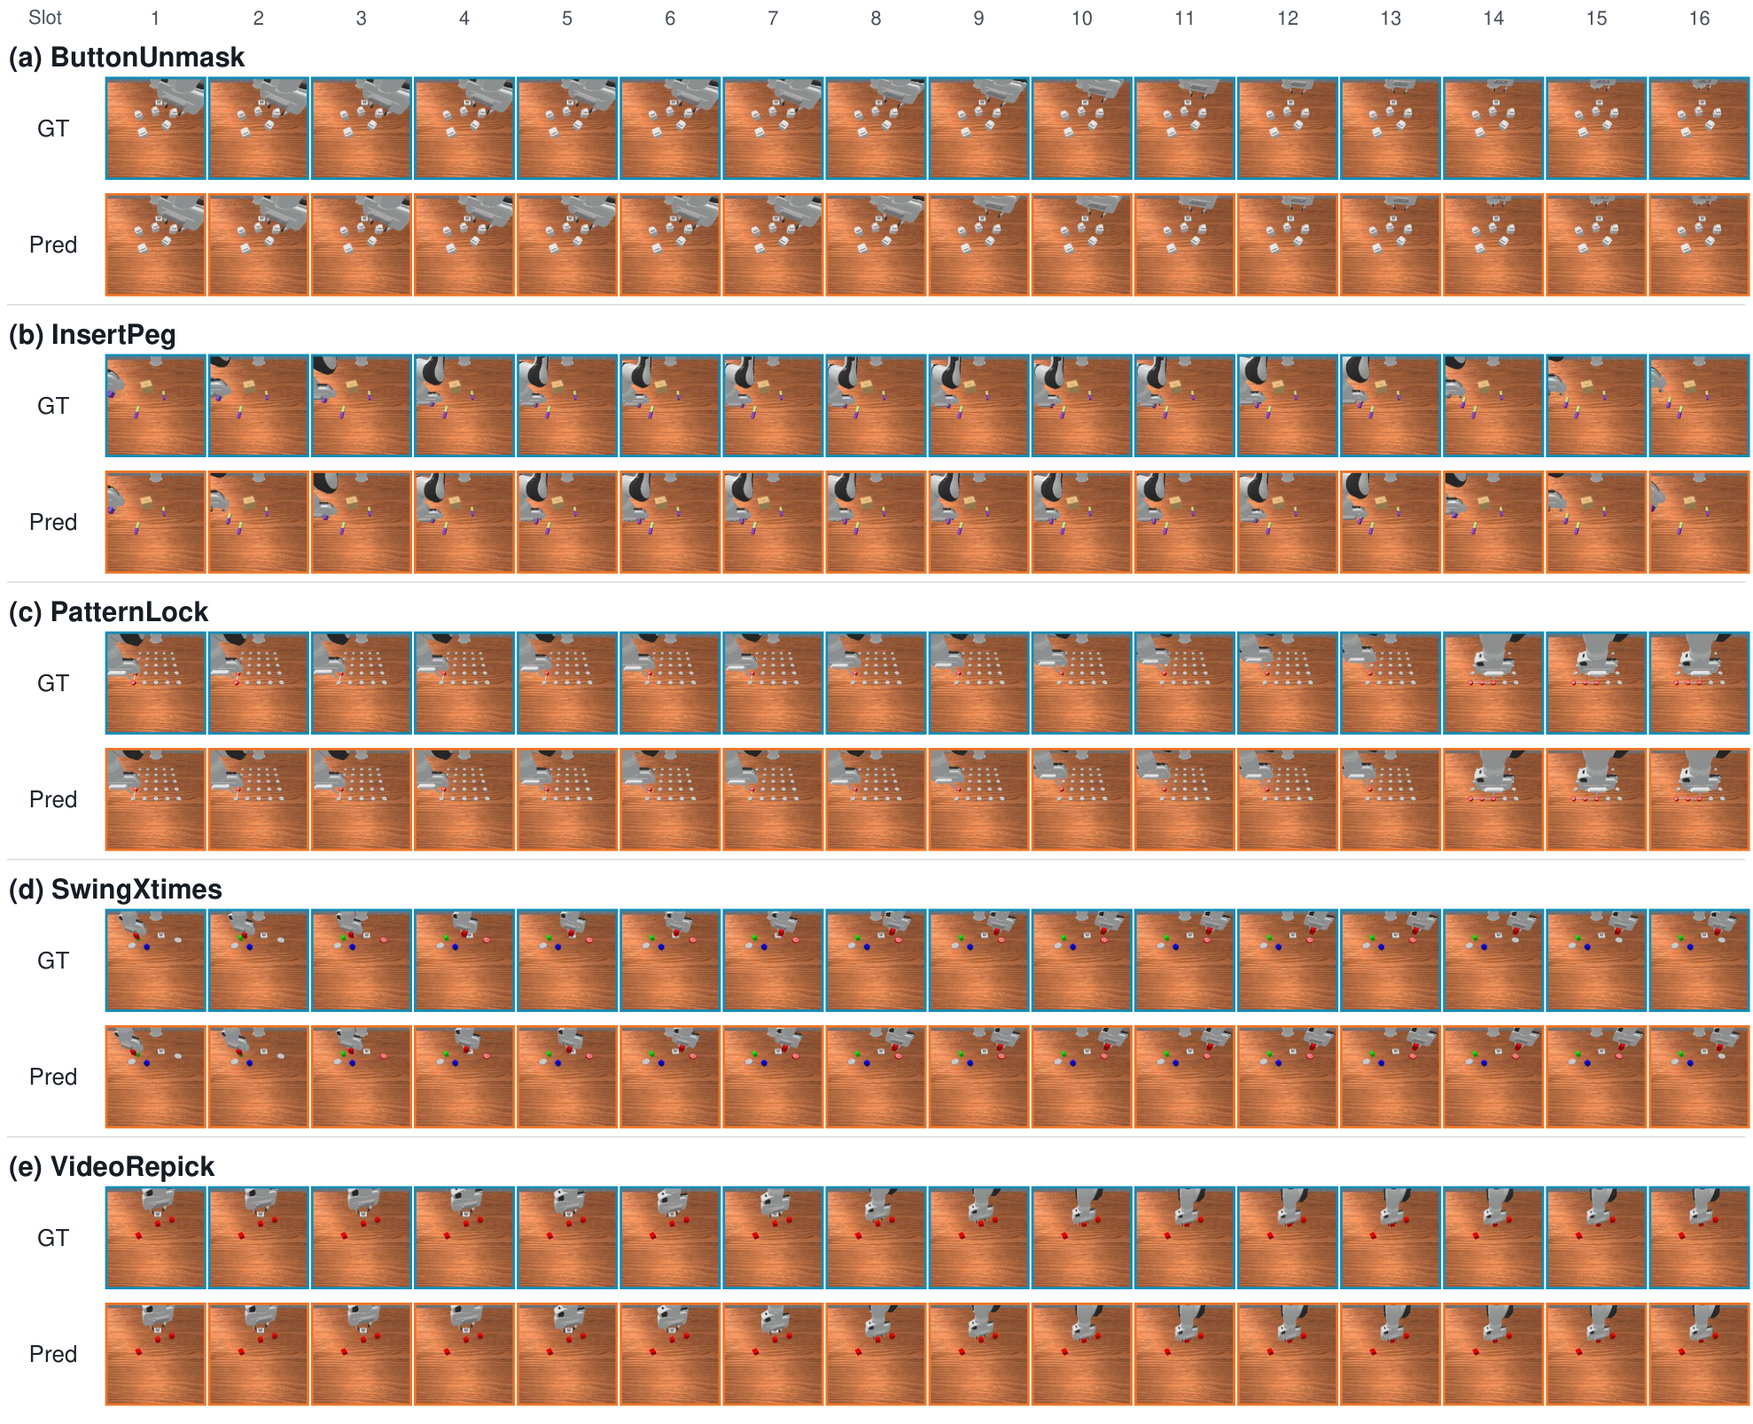
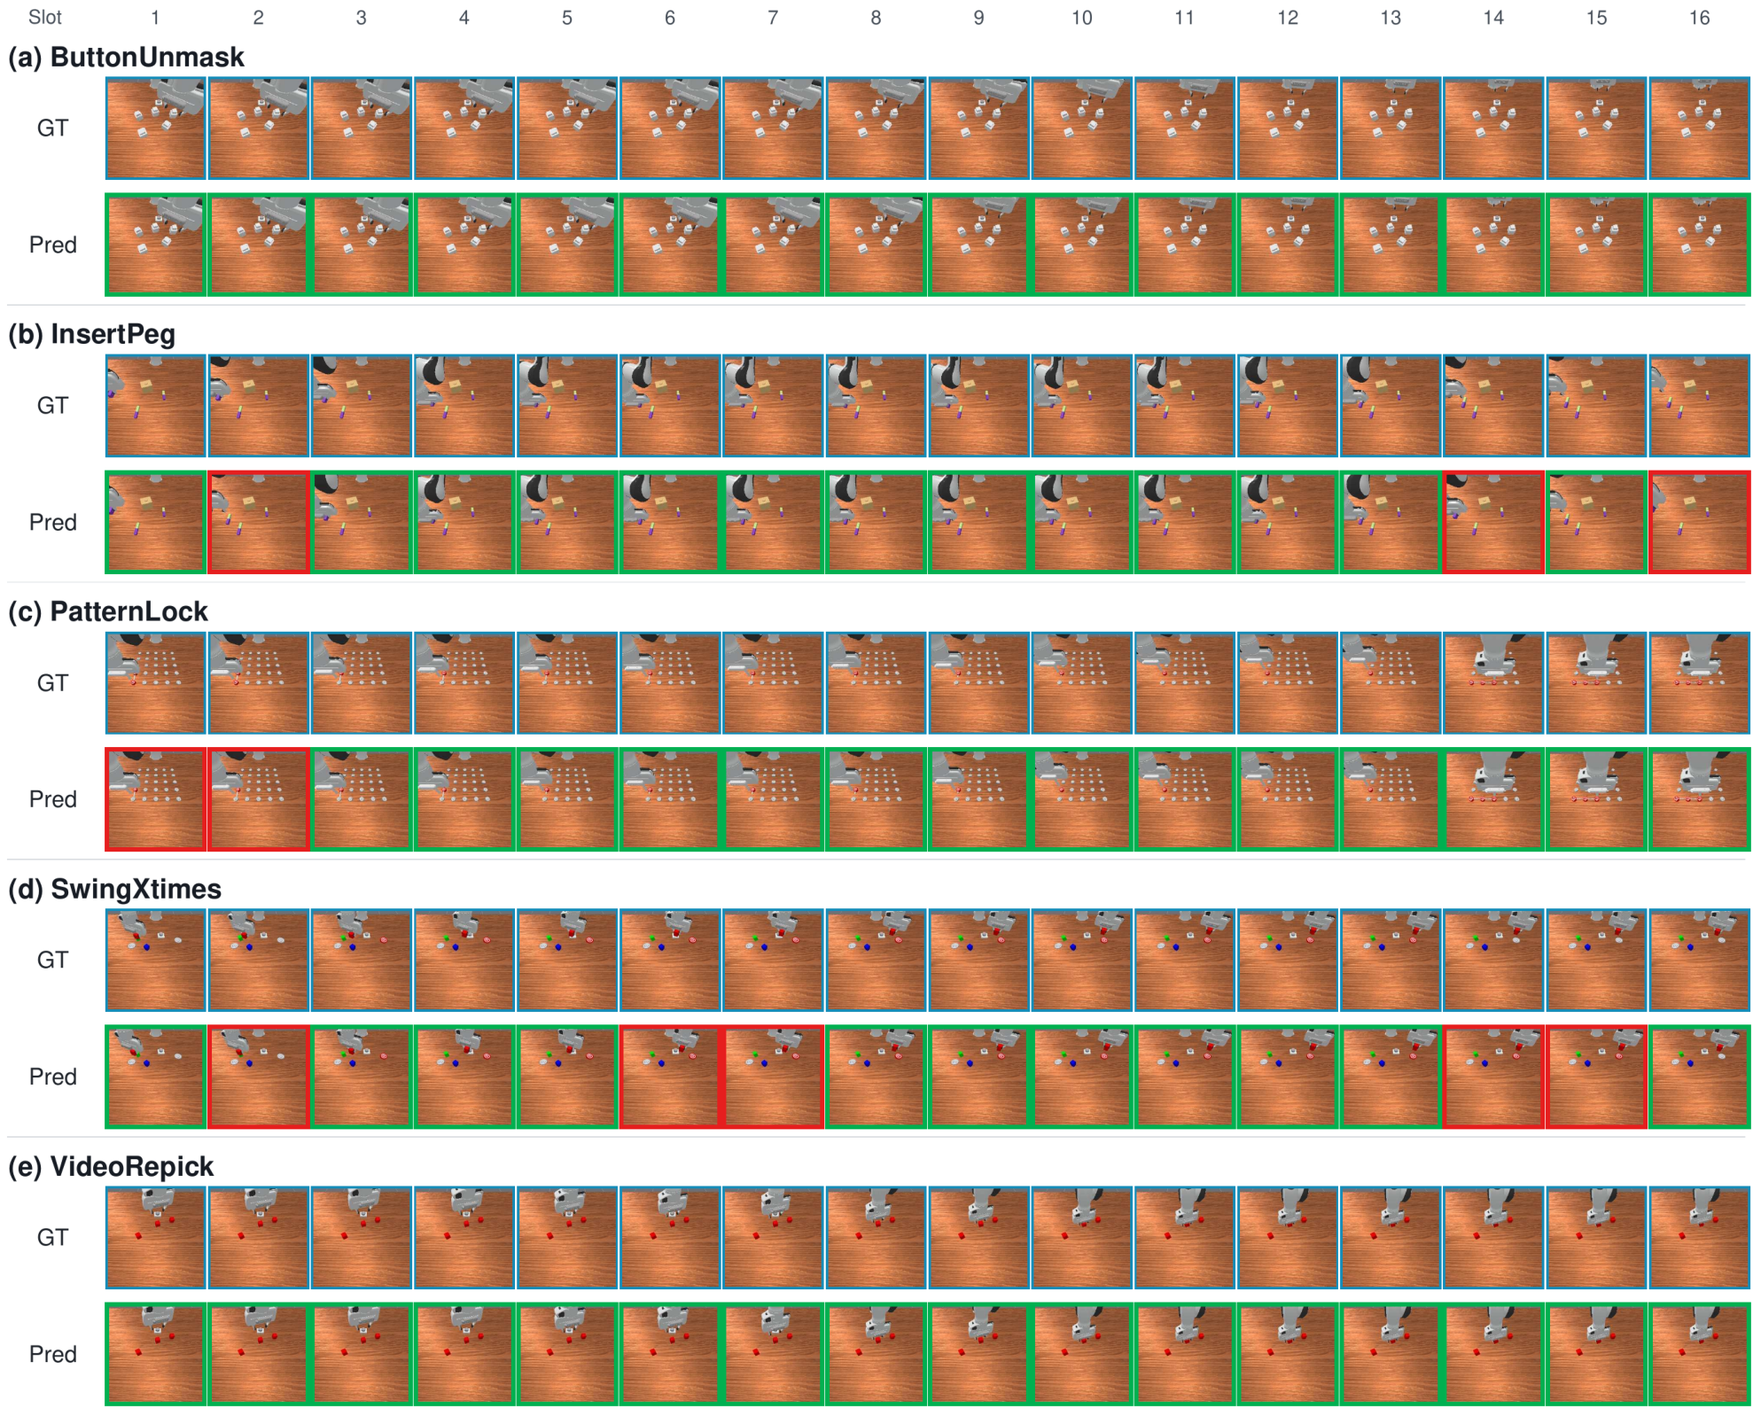
Update homepage to the threshold-retrieval manuscript.
Replace the 32-frame / 512-slot copy with the current English
paper: suite component gains, Piper 62.5% mean TSR, and the
threshold teaser. Keep Claude Official tokens. Cache-bust v=4.

diff --git a/index.html b/index.html
@@ -3,10 +3,10 @@
 <head>
   <meta charset="utf-8">
   <meta name="viewport" content="width=device-width, initial-scale=1">
-  <title>Dual-Stream Memory for VLAs | ICRA 2027</title>
-  <meta name="description" content="Dual-stream memory for VLAs: causal retrieval, streaming compression, and linear multi-scale fusion. ICRA 2027, under double-anonymous review.">
-  <link rel="icon" href="favicon.svg?v=3" type="image/svg+xml">
-  <link rel="stylesheet" href="style.css?v=3">
+  <title>Dual-Stream Memory for Vision-Language-Action Policies | ICRA 2027</title>
+  <meta name="description" content="Dual-stream memory for VLA policies: recurrent execution context and threshold retrieval of historical images. ICRA 2027, under double-anonymous review.">
+  <link rel="icon" href="favicon.svg?v=4" type="image/svg+xml">
+  <link rel="stylesheet" href="style.css?v=4">
 </head>
 <body>
   <header class="site-head">
@@ -24,14 +24,14 @@
   <main class="wrap">
     <section class="intro">
       <p class="eyebrow">ICRA 2027</p>
-      <h1>Dual-Stream Memory for VLAs: Causal Retrieval, Streaming Compression, and Linear Multi-Scale Fusion</h1>
+      <h1>Dual-Stream Memory for Vision-Language-Action Policies</h1>
       <p class="authors">Anonymous Authors</p>
-      <p class="lead">Task-conditioned retrieval and task-agnostic recurrent compression stay as separate memory streams. Linear fusion fills a fixed spatial budget. The policy reads patches and one temporal token through typed cross-attention.</p>
+      <p class="lead">Recurrent execution context stays in one temporal token. Task-conditioned retrieval keeps historical images above a relevance threshold. Linear fusion represents each retained frame in sixteen spatial tokens.</p>
       <div class="facts">
-        <span class="fact"><b>512</b> spatial slots</span>
-        <span class="fact"><b>32</b> retrieved frames</span>
         <span class="fact"><b>1</b> temporal token</span>
-        <span class="fact"><b>4</b> Piper tasks</span>
+        <span class="fact"><b>16</b> tokens / frame</span>
+        <span class="fact"><b>0.6</b> retrieval threshold</span>
+        <span class="fact"><b>62.5%</b> Piper mean TSR</span>
       </div>
       <p class="chip">Under double-anonymous review</p>
       <nav class="pills" aria-label="On this page">
@@ -45,8 +45,8 @@
     <section>
       <article class="card">
         <figure>
-          <img src="assets/teaser.png" alt="Dual-stream memory pipeline: dense retrieval and linear multi-scale fusion on the spatial stream, Gated DeltaNet compression on the temporal stream, and typed policy readout.">
-          <figcaption>Dual-stream memory and training supervision. (a) Task-conditioned dense retrieval selects historical frames; linear multi-scale fusion combines aligned coarse, base, and fine SigLIP features in 512 fixed slots. A task-agnostic Gated DeltaNet supplies one temporal token through a separate gated readout. (b) Keyframe and patch-mask losses supervise a shared relevance grid. (c) Progress regression and action-conditioned feature reconstruction supervise the compressed state; auxiliary heads and the frozen target encoder are removed before policy integration.</figcaption>
+          <img src="assets/teaser.png" alt="Dual-stream memory: Gated DeltaNet compression, threshold retrieval, and linear multi-scale fusion feeding a VLA policy.">
+          <figcaption>Dual-stream memory. (a) GDN compresses visual history into one temporal token; threshold retrieval and multi-scale fusion produce 16<em>m<sub>t</sub></em> spatial tokens from <em>m<sub>t</sub></em> retained frames. (b,c) Independent Stage 1 objectives; Stage 2 jointly trains the assembled policy. Auxiliary heads are removed before policy integration.</figcaption>
         </figure>
       </article>
     </section>
@@ -57,7 +57,7 @@
         <h2>Abstract</h2>
       </div>
       <article class="card">
-        <p>Long-horizon vision-language-action (VLA) control requires access to task-relevant visual evidence and compact temporal context. We present dual-stream memory that separates task-conditioned retrieval from task-agnostic recurrent compression. A dense retriever locates relevant frames and patches, while a Gated DeltaNet summarizes a stride-sampled causal history. Progress regression and action-conditioned reconstruction of past visual features supervise the compressed state. Linear multi-scale fusion combines coarse context and fine detail within 512 fixed spatial slots. Separate policy readouts integrate this spatial memory with one temporal token. Controlled RoboMME ablations evaluated frame retrieval, spatial fusion, and temporal readout. The complete model achieved <span class="tbd">[TBD]</span>% task success, exceeding FrameSamp+Modul by <span class="tbd">[TBD]</span> percentage points, and achieved <span class="tbd">[TBD]</span>% average success across four Piper tasks. These results support separate spatial and temporal memory interfaces within the evaluated tasks and history lengths.</p>
+        <p>Memory-dependent manipulation requires tracking execution progress while recovering visual evidence that is no longer visible. We present dual-stream memory for vision-language-action policies, separating recurrent execution context from task-conditioned access to historical images. A task-agnostic Gated DeltaNet compresses visual history into one temporal token. A retriever retains frames above a fixed relevance threshold, while linear multi-scale fusion represents each retained frame in sixteen spatial tokens. The two streams are pretrained independently and then jointly trained with the policy. Adding the components individually to FrameSamp+Modul yields average success gains of 6.94, 4.22, and 4.50 percentage points on Counting, Permanence, and Reference, respectively. These comparisons use the published RoboMME baseline and show task-dependent gains. The complete model achieves <span class="tbd">[TBD]</span>% overall success on sixteen RoboMME tasks. On four Piper tasks, the complete model achieves 62.5% mean success, compared with 37.5% for FrameSamp+Modul, with the largest gains on repeated-action counting. The results support separating execution context from historical visual evidence, while showing that the benefits depend on the memory demands of each task.</p>
       </article>
     </section>
 
@@ -72,11 +72,11 @@
           <div class="card-heading">
             <div>
               <small>Spatial stream</small>
-              <h3>Dense retrieval and linear fusion</h3>
+              <h3>Threshold retrieval and linear fusion</h3>
             </div>
-            <span class="method-tag">512 slots</span>
+            <span class="method-tag">16 / frame</span>
           </div>
-          <p>The retriever scores front-view history with the task goal and selects 32 frames. Linear multi-scale fusion fills 512 SigLIP slots from aligned 2×2, 4×4, and 8×8 grids.</p>
+          <p>The retriever scores every historical frame and keeps those whose LSE logit exceeds 0.6. Linear multi-scale fusion represents each retained frame with sixteen aligned SigLIP tokens. Memory length follows the evidence, not a fixed top-<em>k</em>.</p>
         </article>
         <article class="card">
           <div class="card-heading">
@@ -86,7 +86,7 @@
             </div>
             <span class="method-tag secondary">1 token</span>
           </div>
-          <p>A six-layer Gated DeltaNet compresses a stride-3 visual prefix into <em>c<sub>t</sub></em>. Separate cross-attention reads the patch memory and this token. Progress and reconstruction heads are training-only.</p>
+          <p>A six-layer Gated DeltaNet compresses a stride-3 visual prefix into <em>c<sub>t</sub></em>. Progress prediction and action-conditioned reconstruction supervise this state. The policy reads it as one temporal token after the auxiliary heads are removed.</p>
         </article>
       </div>
     </section>
@@ -95,115 +95,48 @@
       <div class="section-title">
         <span>EVIDENCE</span>
         <h2>Results</h2>
-        <p>Unfinished rows stay marked. They are not a ranking of the full model.</p>
+        <p>Component additions use the published FrameSamp+Modul baseline. RoboMME overall TSR for the complete model stays unmarked until that number is in the manuscript.</p>
       </div>
       <div class="stack">
         <article class="card">
-          <p>Residual multi-scale sum reached 45.42±1.12% TSR on RoboMME, 0.91 points above the published FrameSamp+Modul aggregate of 44.51±0.77%. Linear fusion, dense retrieval, and typed readout remain <span class="tbd">[TBD]</span>. Piper averages for the completed baselines are π<sub>0.5</sub> 15.0, NativeMEM 31.7, and FrameSamp+Modul 37.5. Ours is <span class="tbd">[TBD]</span>. Those unfinished rows are not a ranking of the full model.</p>
+          <p>Adding one component at a time raised suite TSR by 6.94 points on Counting (GDN), 4.22 on Permanence (threshold retrieval), and 4.50 on Reference (linear fusion). On four Piper tasks the complete model reached 62.5% mean TSR, against 37.5% for FrameSamp+Modul, with the largest gains on repeated-action counting. The sixteen-task RoboMME overall score remains <span class="tbd">[TBD]</span>.</p>
         </article>
 
         <article class="card">
           <div class="table-wrap">
             <table>
-              <caption class="visually-hidden">Fixed-grid FrameSamp TSR on RoboMME</caption>
+              <caption class="visually-hidden">Component additions to FrameSamp+Modul</caption>
               <thead>
                 <tr>
-                  <th>Grid</th>
-                  <th class="num">Tok./frame</th>
-                  <th class="num">Counting</th>
-                  <th class="num">Permanence</th>
-                  <th class="num">Reference</th>
-                  <th class="num">Imitation</th>
-                  <th class="num">Average</th>
+                  <th>Component / suite</th>
+                  <th class="num">Base</th>
+                  <th class="num">Addition</th>
+                  <th class="num">Δ (pp)</th>
                 </tr>
               </thead>
               <tbody>
                 <tr>
-                  <td>2×2</td>
-                  <td class="num">4</td>
-                  <td class="num">66.17</td>
-                  <td class="num">26.67</td>
-                  <td class="num">39.00</td>
-                  <td class="num">45.83</td>
-                  <td class="num">44.42±0.07</td>
-                </tr>
-                <tr>
-                  <td>4×4</td>
-                  <td class="num">16</td>
+                  <td>GDN / Counting</td>
                   <td class="num">65.22</td>
+                  <td class="num">72.17±4.25</td>
+                  <td class="num">+6.94</td>
+                </tr>
+                <tr>
+                  <td>Retrieval / Permanence</td>
                   <td class="num">25.11</td>
-                  <td class="num">36.33</td>
-                  <td class="num">51.39</td>
-                  <td class="num">44.51±0.77</td>
+                  <td class="num">29.33±0.76</td>
+                  <td class="num">+4.22</td>
                 </tr>
-                <tr>
-                  <td>8×8</td>
-                  <td class="num">64</td>
-                  <td class="num">68.67</td>
-                  <td class="num">26.33</td>
+                <tr class="ours-row">
+                  <td>Linear fusion / Reference</td>
                   <td class="num">36.33</td>
-                  <td class="num">44.17</td>
-                  <td class="num">43.88±0.82</td>
+                  <td class="num">40.83±3.62</td>
+                  <td class="num">+4.50</td>
                 </tr>
               </tbody>
             </table>
           </div>
-          <p class="caption">Fixed-grid FrameSamp TSR (%) on RoboMME with 32 frames and an 80,000-step training budget. Average is the unweighted mean across four suites. The grids use 128, 512, and 2,048 patch tokens, respectively. The 4×4 row is the published FrameSamp+Modul reference; the other rows report final-checkpoint means and sample standard deviations across three evaluation seeds.</p>
-        </article>
-
-        <article class="card">
-          <div class="table-wrap">
-            <table>
-              <caption class="visually-hidden">RoboMME ablations</caption>
-              <thead>
-                <tr>
-                  <th>Variant</th>
-                  <th class="num">Patch tok.</th>
-                  <th class="num">Temp. tok.</th>
-                  <th class="num">TSR (%)</th>
-                </tr>
-              </thead>
-              <tbody>
-                <tr>
-                  <td>FrameSamp+Modul</td>
-                  <td class="num">512</td>
-                  <td class="num">0</td>
-                  <td class="num">44.51±0.77</td>
-                </tr>
-                <tr class="ours-row">
-                  <td>Residual multi-scale sum</td>
-                  <td class="num">512</td>
-                  <td class="num">0</td>
-                  <td class="num">45.42±1.12</td>
-                </tr>
-                <tr>
-                  <td>Linear multi-scale fusion</td>
-                  <td class="num">512</td>
-                  <td class="num">0</td>
-                  <td class="num"><span class="tbd">[TBD]</span></td>
-                </tr>
-                <tr>
-                  <td>Dense retrieval + linear fusion</td>
-                  <td class="num">512</td>
-                  <td class="num">0</td>
-                  <td class="num"><span class="tbd">[TBD]</span></td>
-                </tr>
-                <tr>
-                  <td>Dense + linear + concatenated <em>c<sub>t</sub></em></td>
-                  <td class="num">512</td>
-                  <td class="num">1</td>
-                  <td class="num"><span class="tbd">[TBD]</span></td>
-                </tr>
-                <tr class="ours-row">
-                  <td>Dense + linear + typed <em>c<sub>t</sub></em> (full)</td>
-                  <td class="num">512</td>
-                  <td class="num">1</td>
-                  <td class="num"><span class="tbd">[TBD]</span></td>
-                </tr>
-              </tbody>
-            </table>
-          </div>
-          <p class="caption">RoboMME ablations after 80,000-step policy training. TSR is mean ± sample standard deviation across evaluation seeds 0, 7, and 42, except FrameSamp+Modul, which is the published 4×4 aggregate also shown in the resolution table. Patch and temporal columns give policy-facing token budgets.</p>
+          <p class="caption">Suite means when each component is added to FrameSamp+Modul. TSR (%) averages three evaluation seeds. Δ is computed before rounding. FrameSamp+Modul values are the published RoboMME reference.</p>
         </article>
 
         <article class="card">
@@ -247,16 +180,16 @@
                 </tr>
                 <tr class="ours-row">
                   <td>Ours</td>
-                  <td class="num"><span class="tbd">[TBD]</span></td>
-                  <td class="num"><span class="tbd">[TBD]</span></td>
-                  <td class="num"><span class="tbd">[TBD]</span></td>
-                  <td class="num"><span class="tbd">[TBD]</span></td>
-                  <td class="num"><span class="tbd">[TBD]</span></td>
+                  <td class="num">80.0</td>
+                  <td class="num">93.3</td>
+                  <td class="num">36.7</td>
+                  <td class="num">40.0</td>
+                  <td class="num">62.5</td>
                 </tr>
               </tbody>
             </table>
           </div>
-          <p class="caption">Piper task success rate (%). Each pair of task and method comprised 30 rollouts from one evaluation pass. Avg. is the unweighted mean across the four tasks.</p>
+          <p class="caption">Piper TSR (%): 30 rollouts per task and method. Avg. weights the four tasks equally. The largest gains are on Pick×3 and Swing×2. Shell declined from 53.3% to 40.0%.</p>
         </article>
 
         <div class="figure-grid">
@@ -265,15 +198,15 @@
               <div class="figure-frame">
                 <img src="assets/progress.png" alt="Current-progress predictions versus ground truth for eight tasks, two episodes each.">
               </div>
-              <figcaption>Current-progress predictions for the first eight tasks, with two episodes per task. Blue and orange identify episodes; solid and dashed curves denote predictions and reference labels. The horizontal axis is normalized execution time.</figcaption>
+              <figcaption>Current-progress predictions for the first eight tasks, with two episodes per task. Blue and orange identify episodes; solid and dashed curves denote predictions and reference labels. Progress-head MSE is 0.03430 over sixteen tasks.</figcaption>
             </figure>
           </article>
           <article class="card">
             <figure>
               <div class="figure-frame">
-                <img src="assets/history.png" alt="Sixteen-slot visual history comparisons for five tasks, each with a ground-truth row and a prediction-associated row.">
+                <img src="assets/history.png" alt="Sixteen-slot visual history comparisons with green match boxes and red mismatch boxes.">
               </div>
-              <figcaption>Sixteen-slot visual-history comparisons for (a) ButtonUnmask, (b) InsertPeg, (c) PatternLock, (d) SwingXtimes, and (e) VideoRepick. Blue and orange borders distinguish reference (GT) and prediction-associated (Pred) images. These qualitative pairs show scene correspondence; they do not establish exact temporal retrieval.</figcaption>
+              <figcaption>Sixteen-slot visual-history comparisons for five tasks. Green boxes mark scene matches and red boxes mark mismatches: 70 matches among 80 displayed slots. These examples illustrate action-conditioned reconstruction, not dataset-level retrieval accuracy.</figcaption>
             </figure>
           </article>
         </div>
@@ -290,7 +223,7 @@
       </div>
       <article class="card">
         <pre id="bibtex-source"><code>@inproceedings{anonymous2027dualstream,
-  title={Dual-Stream Memory for VLAs: Causal Retrieval, Streaming Compression, and Linear Multi-Scale Fusion},
+  title={Dual-Stream Memory for Vision-Language-Action Policies},
   year={2027},
   note={Under double-anonymous review}
 }</code></pre>

diff --git a/README.md b/README.md
@@ -1,6 +1,6 @@
 # Dual-stream memory
 
-Static homepage for the ICRA 2027 paper *Dual-Stream Memory for VLAs: Causal Retrieval, Streaming Compression, and Linear Multi-Scale Fusion*. Authors stay anonymous while the paper is under double-anonymous review.
+Static homepage for the ICRA 2027 paper *Dual-Stream Memory for Vision-Language-Action Policies*. Authors stay anonymous while the paper is under double-anonymous review. Visual tokens follow fireworks-tech-graph Claude Official.
 
 The GitHub Pages URL will be [https://jackdov9.github.io/dual-stream-memory/](https://jackdov9.github.io/dual-stream-memory/).
 
